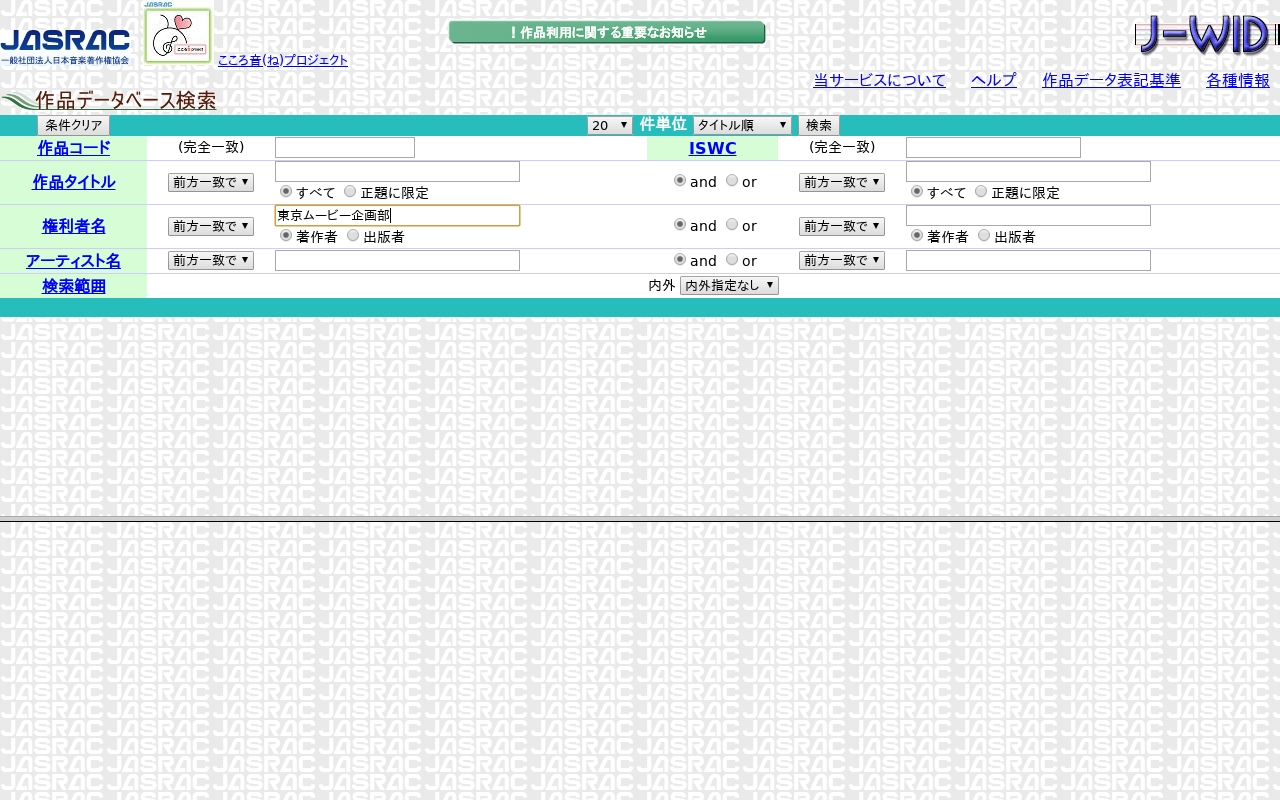
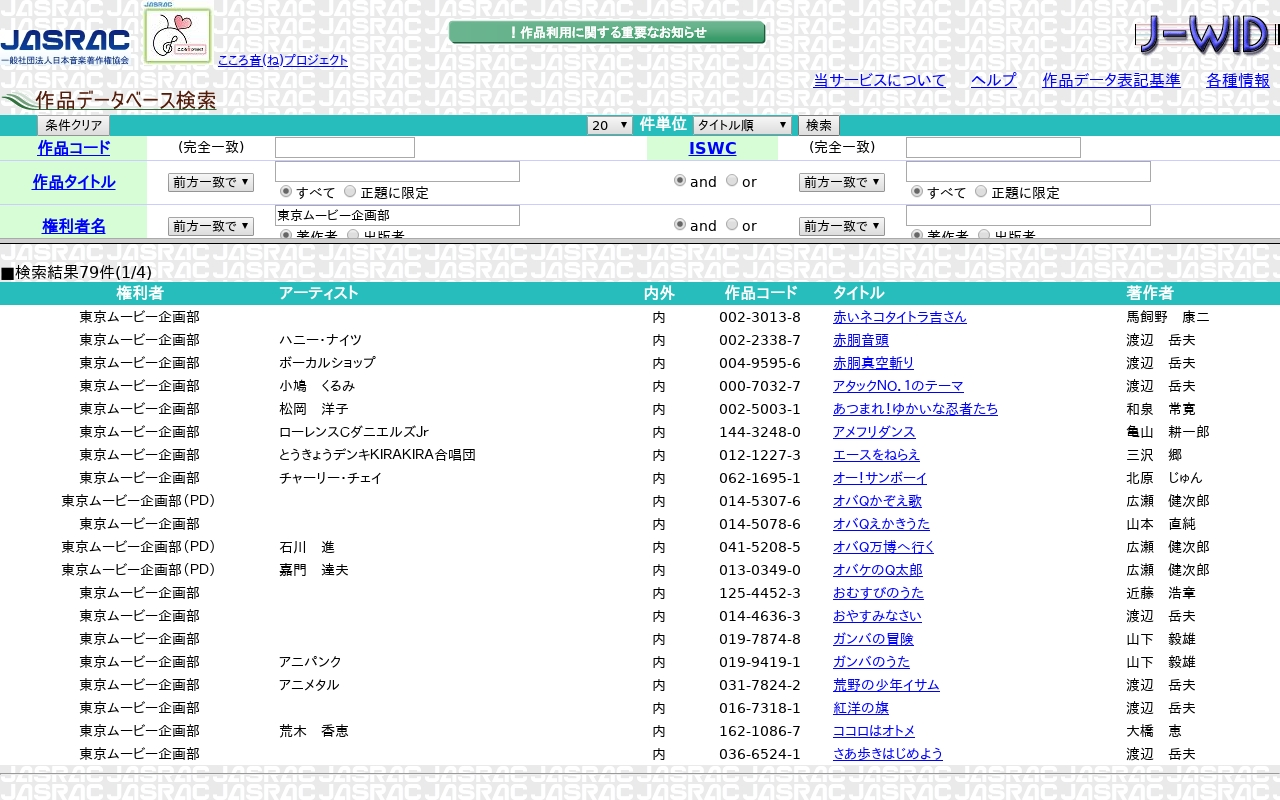
03/08/19

diff --git a/js/mov.js b/js/mov.js
@@ -1,4 +1,4 @@
-const key="jsp"
+const key="mov"
 const key2="inp"
 //const key=require ("./key")
 const puppeteer = require('puppeteer');
@@ -6,8 +6,6 @@ const puppeteer = require('puppeteer');
 async function main() {
 const browser = await puppeteer.launch({args: ['--no-sandbox']} );
 const page = await browser.newPage();
-    //const url="https://www.ascap.com/repertory"
-    //const url="http://www2.jasrac.or.jp/eJwid"
     const url="http://www2.jasrac.or.jp/eJwid"
 
 await page.setViewport({ width: 1280, height: 800 })
@@ -39,24 +37,11 @@ await frame[1].waitForSelector("input[name=IN_KEN_NAME1]")
 await frame[1].focus("input[name=IN_KEN_NAME1]")
 await frame[1].type("input[name=IN_KEN_NAME1]",hint)
 
-//const sub= await frame[1].$('input[name=CMD_SEARCH]');
 await frame[1].click('input[name=CMD_SEARCH]');
 
 console.log("cli")
-//await page.waitForNavigation({timeout: 60000, waitUntil: "domcontentloaded"});
-// const form = await frame[1].$('input[name=RESULT_CURRENT_PAGE]');
-// await form.evaluate(form => form.submit());
 
 const url3="http://www2.jasrac.or.jp/eJwid/main.jsp?trxID=A00401-3"
-// const newPagePromise = new Promise(x => browser.once('targetcreated', target => x(target.page())));
-// const newPage = await newPagePromise;
-
-// const tar=await browser.targets()
-// console.log(tar.length)
-// for (var i=0;i<4;i++){
-// console.log(tar[i].url())
-// }
-
 const pages=await browser.pages()
 console.log(pages.length)
 console.log(pages[0].url())

diff --git a/js/twi.js b/js/twi.js
@@ -1,0 +1,30 @@
+/**
+ * @name Twitter
+ *
+ * @desc Logs into Twitter. Provide your username and password as environment variables when running the script, i.e:
+ * `TWITTER_USER=myuser TWITTER_PWD=mypassword node twitter.js`
+ *
+ */
+
+const puppeteer = require('puppeteer');
+const screenshot = 'twitter.png';
+
+(async () => {
+  const browser = await puppeteer.launch({ headless: false })
+  const page = await browser.newPage()
+  await page.setViewport({ width: 1280, height: 800 })
+
+  const navigationPromise = page.waitForNavigation()
+
+  await page.goto('https://twitter.com/')
+  await page.waitForSelector('.StaticLoggedOutHomePage-cell > .StaticLoggedOutHomePage-login > .LoginForm > .LoginForm-username > .text-input')
+  await page.type('.StaticLoggedOutHomePage-cell > .StaticLoggedOutHomePage-login > .LoginForm > .LoginForm-username > .text-input', 'tim_nolet')
+
+  await page.type('.StaticLoggedOutHomePage-cell > .StaticLoggedOutHomePage-login > .LoginForm > .LoginForm-password > .text-input', 'spWF9G5%')
+  await page.click('.StaticLoggedOutHomePage-content > .StaticLoggedOutHomePage-cell > .StaticLoggedOutHomePage-login > .LoginForm > .EdgeButton')
+  await navigationPromise
+
+  await page.waitForSelector('#timeline')
+  await page.screenshot({ path: screenshot })
+  await browser.close()
+})()

diff --git a/js/nod.js b/js/nod.js
@@ -1,0 +1,37 @@
+
+const key="nod"
+//const key=require ("./key")
+const puppeteer = require('puppeteer');
+
+async function main() {
+const browser = await puppeteer.launch({args: ['--no-sandbox']} );
+const page = await browser.newPage();
+    //let url='http://localhost:3000/page-'+key
+    const url="https://node.minbit.net"
+
+await page.setViewport({ width: 1280, height: 800 })
+await page.goto(url);
+
+await page.waitForNavigation({timeout: 60000, waitUntil: "domcontentloaded"});
+
+// let elm= await page.$('input[name=usr]');
+// await elm.type("min")
+    //
+    //await page.type('input[name=IN_KEN_NAME1]', "とうきょうムービー");
+
+// const cur= await page.$('input[name=RESULT_CURRENT_PAGE]');
+// await cur.click();
+
+await page.screenshot({type:"jpeg",quality:100,path: 'img/'+key+'.jpg',fullPage:true});
+
+// var name= await page.$eval('input[name="IN KEN NAME1"]', el => el.value);
+// console.log(name)
+//let elm= await page.focus('input[name="IN_KEN_NAME1"]');
+//    //await elm.type("とうきょうムービー")
+
+await browser.close();
+
+};
+
+main();
+

diff --git a/js/ama.js b/js/ama.js
@@ -1,0 +1,31 @@
+/**
+ * @name Amazon search
+ *
+ * @desc Looks for a "nyan cat pullover" on amazon.com, goes two page two clicks the third one.
+ */
+const puppeteer = require('puppeteer')
+
+const screenshot = 'ama.png'
+try {
+  (async () => {
+
+const browser = await puppeteer.launch({args: ['--no-sandbox']} );
+    const page = await browser.newPage()
+    await page.setViewport({ width: 1280, height: 800 })
+    await page.goto('https://www.amazon.com')
+    await page.type('#twotabsearchtextbox', 'nyan cat pullover')
+    await page.click('input.nav-input')
+    await page.waitForSelector('#resultsCol')
+    await page.screenshot({path: 'amazon_nyan_cat_pullovers_list.png'})
+    await page.click('#pagnNextString')
+    await page.waitForSelector('#resultsCol')
+    const pullovers = await page.$$('a.a-link-normal.a-text-normal')
+    await pullovers[2].click()
+    await page.waitForSelector('#ppd')
+    await page.screenshot({path: screenshot})
+    await browser.close()
+    console.log('See screenshot: ' + screenshot)
+  })()
+} catch (err) {
+  console.error(err)
+}
